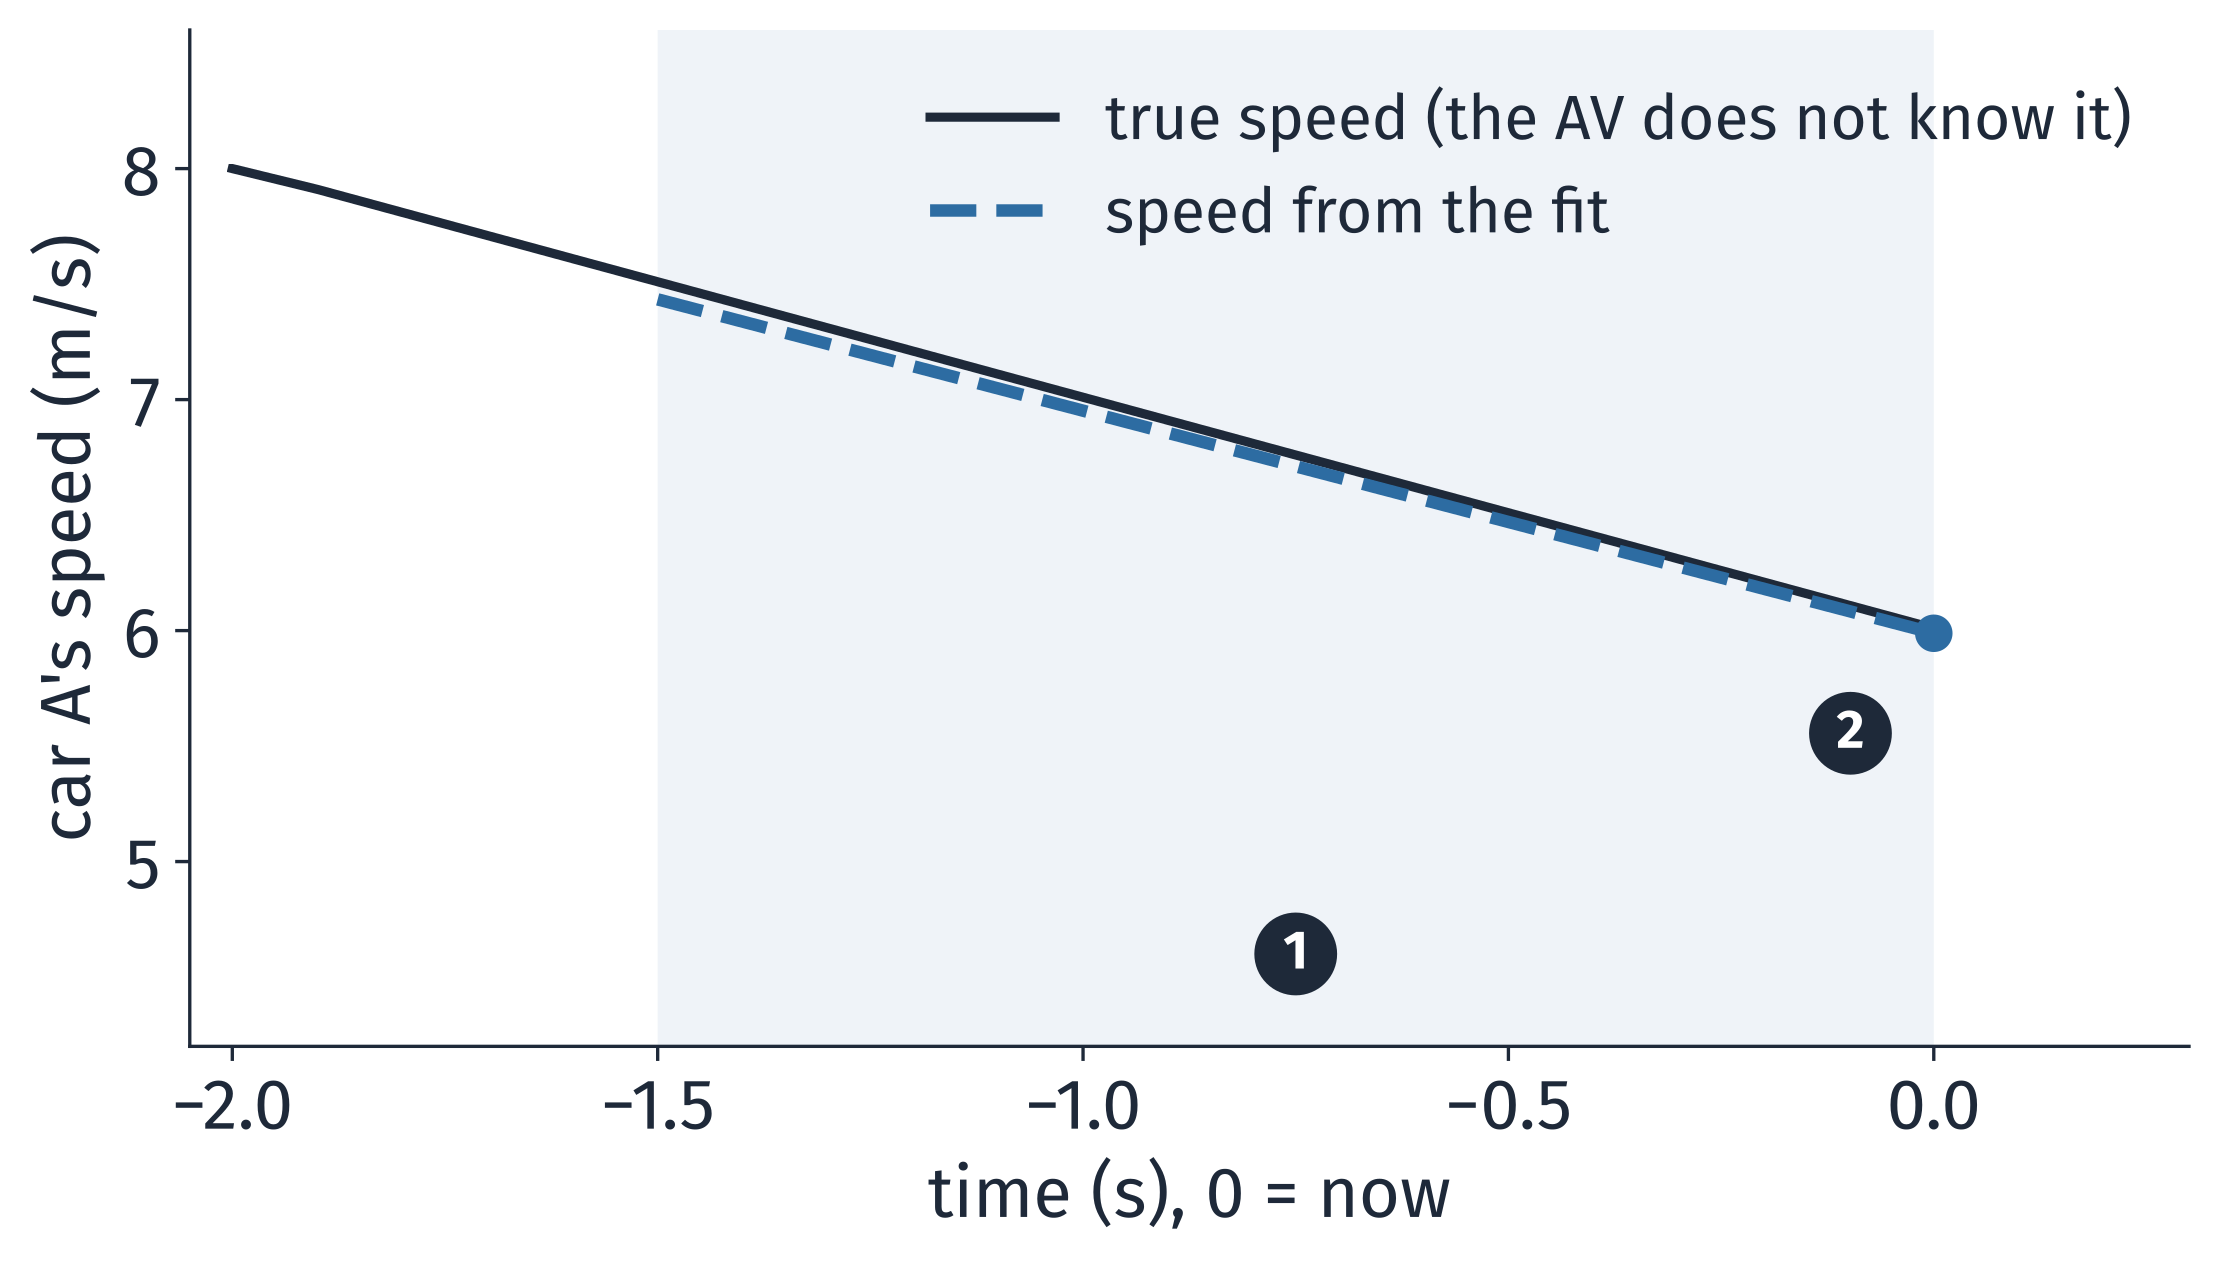
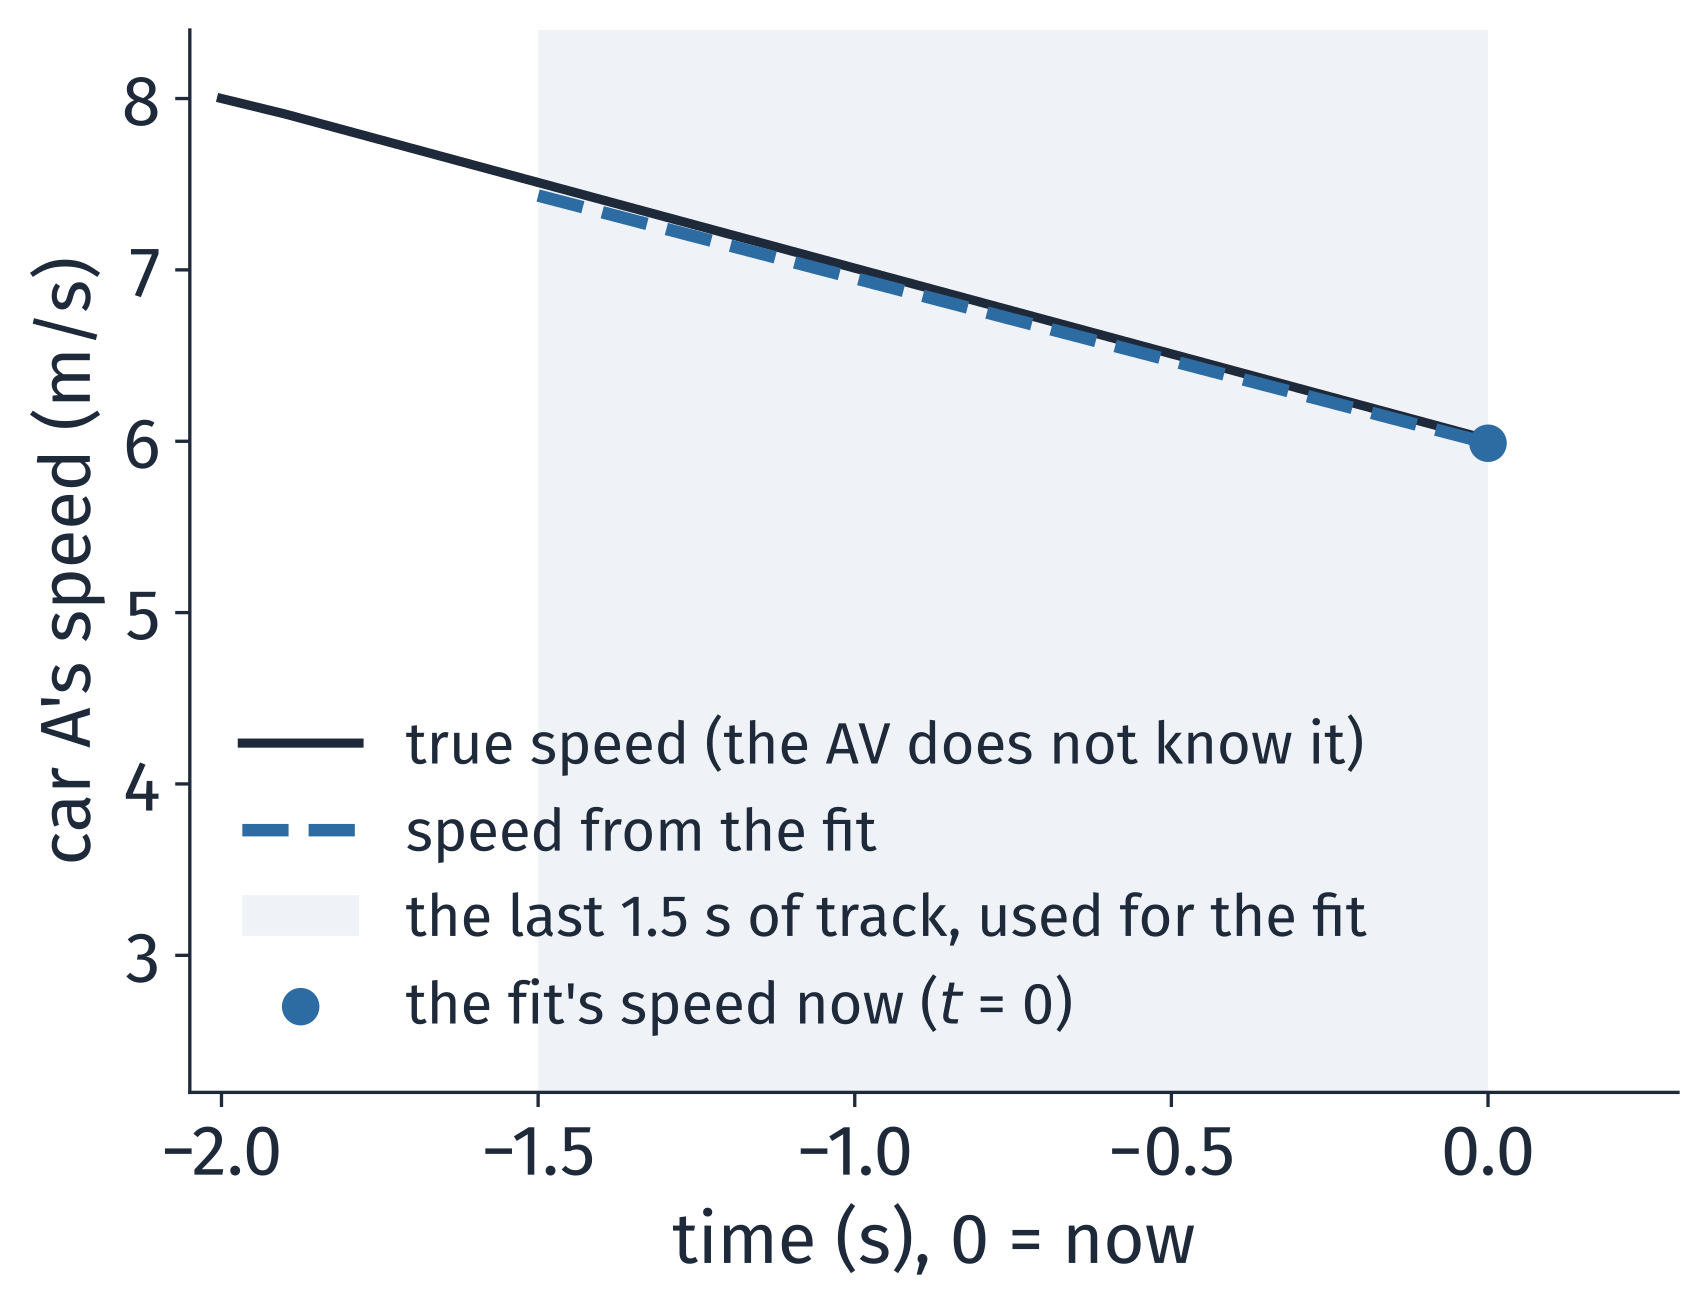
v2.18.2: L8 clearer explanations
Step 1's figure and text say what the graph shows; the levels of motion model,
the 17.3 m and the 6.0 s gap are explained in words; the quiz's map answer no
longer quotes appendix-only numbers.

diff --git a/docs/source/lectures/lecture8/l8_lecture.rst b/docs/source/lectures/lecture8/l8_lecture.rst
@@ -274,8 +274,8 @@ Argoverse 2 and Waymo Open Motion. We read 2 s, as Argoverse does, and predict
 
 .. _l8-lec-three-kinds:
 
-Three Kinds of Motion Model
-~~~~~~~~~~~~~~~~~~~~~~~~~~~
+Three Levels of Motion Model
+~~~~~~~~~~~~~~~~~~~~~~~~~~~~
 
 In their survey, Lefèvre, Vasquez and Laugier sort prediction models into
 three levels (Lefèvre et al., 2014):
@@ -472,26 +472,26 @@ Step 1: Read Car A's Motion from Its Track
 ~~~~~~~~~~~~~~~~~~~~~~~~~~~~~~~~~~~~~~~~~~
 
 .. figure:: /_static/images/L8/track_fit.png
-   :alt: Car A's speed in meters per second against time from minus 2 to 0 seconds. A black line, the true speed, falls straight from 8.0 to 6.0. A light blue shaded band covers the last 1.5 seconds, tag 1 near its bottom. A blue dashed line, the speed from the fit, runs inside the band just under the black line and ends at a blue dot at time 0, at 5.99 meters per second, tag 2 below it. The legend, top right, says the AV does not know the true speed.
-   :width: 70%
+   :alt: Car A's speed in meters per second against time from minus 2 to 0 seconds. A black line, the true speed, falls straight from 8.0 to 6.0. A light blue band covers the last 1.5 seconds. A blue dashed line, the speed from the fit, runs inside the band just under the black line and ends at a blue dot at time 0, at 5.99 meters per second. The legend, bottom left, names the true speed (the AV does not know it), the speed from the fit, the band (the last 1.5 seconds of track, used for the fit) and the dot (the fit's speed now).
+   :width: 60%
    :align: center
 
-   Car A's speed against time, 0 = now. Black: the true speed, which the AV
-   does not know. Blue dashed: the speed from the fit. **1:** the shaded
-   band, the last 1.5 s of track used for the fit. **2:** the blue dot, the
-   fit's speed now, 5.99 m/s.
+   Car A's speed against time, 0 = now. The legend names each line, the
+   band and the dot.
 
-We fit a curve to the last 1.5 s of A's 2 s of track (**1**; 16 positions,
-1.5 s chosen): the path of a car with constant acceleration that passes
-closest to the points (least squares). At :math:`t` = 0 (**2**) the fit
-gives:
+Every physics model starts from car A's motion now, read from A's track.
+The blue band is the last 1.5 s of the track (16 positions; 1.5 s chosen).
+We fit to those positions the path of a car with constant acceleration that
+passes closest to them (least squares). The dashed line is that path's
+speed.
 
-- speed **5.99** m/s;
-- heading 1.86° south of west;
-- turn rate (how fast the heading changes) **0.049** rad/s;
-- braking **0.96** m/s².
+.. note::
 
-The truth: 6.01 m/s, 0 rad/s and 1.0 m/s².
+   **What the graph shows:** the fit's speed stays on the true speed, which
+   the AV cannot see. At :math:`t` = 0 the fit reads 5.99 m/s (truth 6.01)
+   and braking 0.96 m/s² (truth 1.0). It also reads a turn rate, how fast
+   the heading changes, of 0.049 rad/s, though A drives straight: the
+   track's errors put it there. (Its heading: 1.86° south of west.)
 
 .. tip::
 
@@ -967,7 +967,8 @@ region has no term for a turn or a speed change.
 
 .. note::
 
-   Check a predictor's region this way, for each kind of motion.
+   Check a predictor's region this way: for straight driving and for turns,
+   separately.
 
 
 .. _l8-lec-scoring-summary:
@@ -1188,8 +1189,7 @@ The Map's Lanes Are the Candidate Paths
 ~~~~~~~~~~~~~~~~~~~~~~~~~~~~~~~~~~~~~~~
 
 - Where a lane splits, each branch is a possible future path: one mode.
-- Town01's map lists, for junction 54, every way through it: six, two from
-  each arm. Car A's arm has two: **straight on** (23.12 m inside the
+- The map lists every way through the junction: six, two from each arm. Car A's arm has two: **straight on** (23.12 m inside the
   junction) and **left** (23.07 m, radius 14.7 m).
 
 .. _l8-lec-plan:
@@ -1224,8 +1224,8 @@ position:
 .. note::
 
    Before the junction, the two lanes share one line: offset and heading
-   cannot tell them apart (each path's heading and offset scores, 0.973 and
-   0.995, are the same). Only A's **speed** can, so far. Once A starts
+   cannot tell them apart: they are the same for both lanes. Only A's
+   **speed** can, so far. Once A starts
    turning, its heading leaves the straight lane's.
 
 
@@ -1277,8 +1277,8 @@ speed against the distance to the junction.
 
 **1** Left: A drives 6.51 − 5.99 = 0.52 m/s slower than this path expects.
 **2** Straight on: A drives 8.00 − 5.99 = 2.01 m/s slower than this path
-expects. **3** Step 2's formula, solved for the distance, puts left's 8 m/s
-at (8² − 5.42²) / (2 × 1.0) = 17.3 m from the junction. Farther than that,
+expects. **3** 17.3 m is the distance a driver needs to slow from 8 to 5.42 m/s at
+1.0 m/s²: (8² − 5.42²) / (2 × 1.0) = 17.3 m from the junction. Farther than that,
 both paths expect 8 m/s, so speed cannot tell them apart.
 
 
@@ -1379,7 +1379,7 @@ The left mode's error at 1 to 5 s: 0.20, 0.62, 1.04, 1.46 and 1.88 m.
 
 The mode picks the right lane but drives it a little too fast: it turns at
 5.42 m/s, and A turns at 5.0 m/s (our choice for the truth). 5.42 − 5.0 =
-0.42 m/s too fast, so the mode gains about 0.42 m on A every second.
+0.42 m/s too fast, so the mode gets about 0.42 m farther ahead of A every second.
 
 CV, for comparison: FDE 12.35 m.
 
@@ -1492,8 +1492,8 @@ Discussion: Trusting the Probabilities
      square root of their number, so four times the drives about halves the
      0.06.
    - **Groups, not only the total.** A predictor can be calibrated on average
-     and too sure in one kind of scene, such as left turns. Check each kind of
-     scene on its own.
+     and too sure in some scenes, such as left turns. Check those scenes on
+     their own.
    - **Too sure hurts the planner.** If a 0.87 came true only 0.73 of the time,
      the other future would happen 0.27 of the time, not 0.13: about twice as
      often as the planner expects, so it keeps too little room for it.
@@ -1685,11 +1685,6 @@ Pedestrians and Cyclists
   radius 1.4 × 3 = 4.2 m, curb and road included. A car stays along its
   lane.
 
-.. note::
-
-   Tempe again: a track that restarts at every new class leaves the
-   predictor no history to predict from (NTSB, 2019).
-
 
 .. _l8-lec-disc-learned:
 
@@ -1837,8 +1832,8 @@ The IDM: the Gap B Wants
 - :math:`v\,T`, with :math:`T` = 1.6 s: B keeps 1.6 s of driving between
   itself and A.
 - :math:`\Delta v`: B's speed minus A's, how fast B closes in. With
-  :math:`b` = 1.67 m/s², a comfortable braking, the last term adds room when
-  B closes in fast.
+  :math:`b` = 1.67 m/s², a comfortable braking, the last term makes the gap B
+  wants larger when B closes in fast.
 - :math:`T`, :math:`b` and :math:`s_0` are the paper's values (Treiber et
   al., 2000).
 
@@ -1876,11 +1871,12 @@ A turns left across oncoming traffic, so it must give way to the AV.
    users guide (McTrans Center, HCS Two-Way Stop Controlled Intersections
    Users Guide). We use it for car A (chosen).
 
-Our car A decides 6 m before the junction (chosen). Run 1 is the scene so
-far:
+In the scene so far (run 1; a second run follows), car A decides 6 m
+before the junction (chosen).
 
 1. At that moment the AV is 48 m from the point where A's turn crosses its
-   lane: 48 / 8 = 6.0 s (we placed it there).
+   lane, so the gap is the time it needs to get there: 48 / 8 = 6.0 s (we
+   placed it there).
 2. 6.0 s ≥ 4.1 s: A turns without stopping.
 
 

diff --git a/docs/source/changelog/changelog.rst b/docs/source/changelog/changelog.rst
@@ -5,10 +5,23 @@ Changelog
 All notable changes to the ENPM818Z Fall 2026 course documentation are recorded here.
 
 
-.. dropdown:: v2.18.1: Lecture 8 Colors and Clearer Steps (2026-10-29)
+.. dropdown:: v2.18.2: Lecture 8 Clearer Explanations (2026-10-29)
    :icon: tag
    :class-container: sd-border-success
    :open:
+
+   .. rubric:: Lecture 8
+
+   - **Lecture page:** Step 1's figure has a legend for the band and the dot,
+     and the text says what the graph shows. The three levels of motion model
+     (Lefèvre's word), the 17.3 m in the map steps, and the 6.0 s gap in gap
+     acceptance are explained in words.
+   - **Quiz:** the map question's answer no longer quotes numbers that only
+     the Going Further page shows.
+
+.. dropdown:: v2.18.1: Lecture 8 Colors and Clearer Steps (2026-10-29)
+   :icon: tag
+   :class-container: sd-border-success
 
    .. rubric:: Lecture 8
 

diff --git a/docs/source/lectures/lecture8/l8_references.rst b/docs/source/lectures/lecture8/l8_references.rst
@@ -14,7 +14,7 @@ group at the end.
    :open:
 
    How often the predictor runs, the Tempe crash, the prediction windows of
-   the public datasets, and the three kinds of motion model.
+   the public datasets, and the three levels of motion model.
 
    .. grid:: 1 1 2 2
       :gutter: 2
@@ -107,7 +107,7 @@ group at the end.
          that depend on the horizon and the speed), in Several Futures (mAP)
          and in Learned Predictors (training and scores).
 
-      .. grid-item-card:: Three kinds of motion model
+      .. grid-item-card:: Three levels of motion model
          :link: https://doi.org/10.1186/s40648-014-0001-z
          :class-card: sd-border-secondary
 

diff --git a/docs/source/lectures/lecture8/l8_quiz.rst b/docs/source/lectures/lecture8/l8_quiz.rst
@@ -547,7 +547,7 @@ True or False (Questions 16 to 20)
 
    Before the junction, the two lanes share one line: A is 0.07 m from the
    center and 1.86° off the heading of both, so the heading and offset
-   likelihoods are the same for both (0.973 and 0.995). Only A's speed tells them apart
+   are the same for both lanes. Only A's speed tells them apart
    so far: 5.99 m/s, against 6.51 m/s expected for the left turn and
    8.00 m/s for straight on. See Using the Map in :doc:`l8_lecture`.
 

diff --git a/docs/source/lectures/lecture8/l8_appendix.rst b/docs/source/lectures/lecture8/l8_appendix.rst
@@ -134,7 +134,7 @@ How the Test Set Is Built
 
 Everything is in ``l8sim.test_set()``, and every number is chosen.
 
-1. The six ways through junction 54, at cruising speeds of 6, 7, 8, 9 and
+1. The six ways through the junction, at cruising speeds of 6, 7, 8, 9 and
    10 m/s, four random seeds each: 6 × 5 × 4 = 120 drives.
 2. Each drive draws a braking between 0.8 and 2.0 m/s² and a sideways
    acceleration in the turn between 1.5 and 2.5 m/s². After the turn the car
